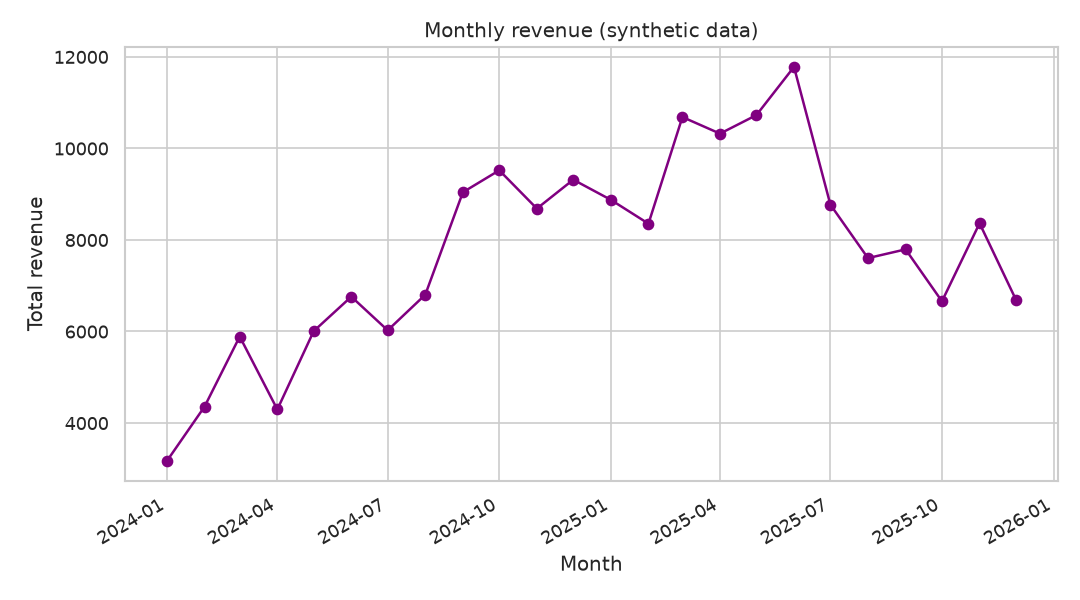
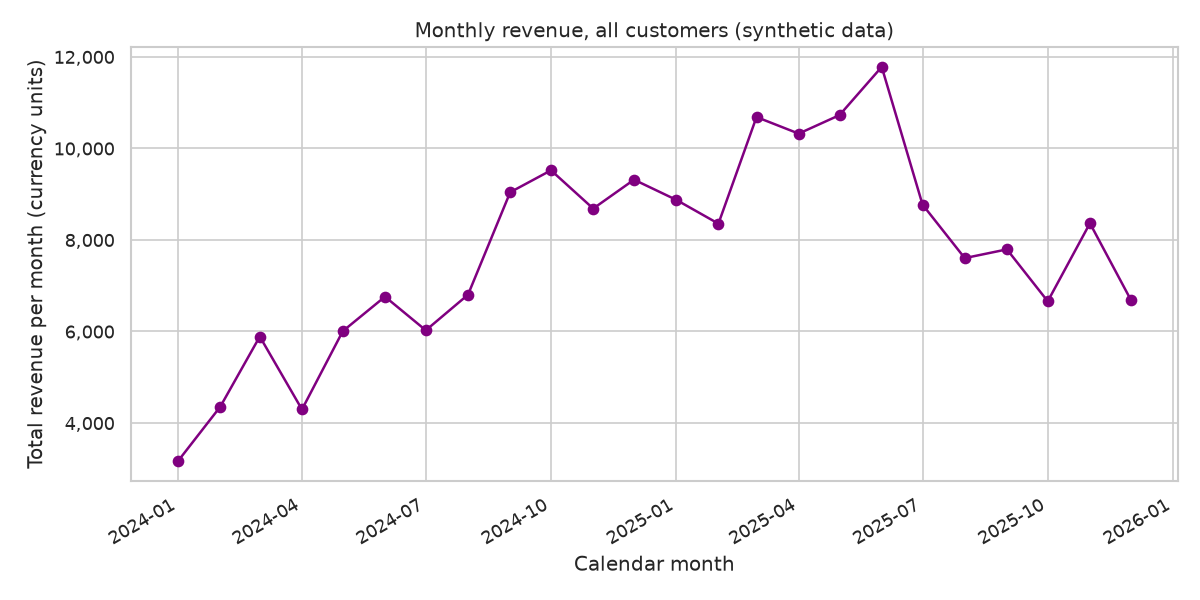
customer-lifetime-value: Improve EDA chart labels, units and number formatting

diff --git a/customer-lifetime-value/src/eda.py b/customer-lifetime-value/src/eda.py
@@ -17,6 +17,7 @@ import matplotlib.pyplot as plt  # noqa: E402
 import numpy as np  # noqa: E402
 import pandas as pd  # noqa: E402
 import seaborn as sns  # noqa: E402
+from matplotlib.ticker import FuncFormatter  # noqa: E402
 
 # Project paths (resolved relative to the project root)
 PROJECT_DIR = Path(__file__).resolve().parents[1]
@@ -25,6 +26,12 @@ FIGURES_DIR = PROJECT_DIR / "figures"
 
 # End of the observation window (same as in the data generator)
 OBSERVATION_END = pd.Timestamp("2025-12-31")
+
+# The data has no currency: values are in a generic currency unit
+UNIT_LABEL = "currency units"
+
+# Tick formatter with thousands separators, e.g. 12,500 instead of 12500
+THOUSANDS = FuncFormatter(lambda value, _pos: f"{value:,.0f}")
 
 sns.set_theme(style="whitegrid")
 
@@ -83,6 +90,11 @@ def segment_table(summary: pd.DataFrame, by: str) -> pd.DataFrame:
     )
 
 
+def pretty_label(code: str) -> str:
+    """Turn a category code such as 'paid_search' into a readable label ('Paid search')."""
+    return str(code).replace("_", " ").capitalize()
+
+
 def print_aggregations(summary: pd.DataFrame, transactions: pd.DataFrame) -> None:
     """Print the key aggregations."""
     print("\n=== Aggregation 1: distribution of orders per customer ===")
@@ -127,8 +139,9 @@ def plot_orders_per_customer(summary: pd.DataFrame, cap: int = 10) -> None:
     ax.set_xticks(range(cap))
     ax.set_xticklabels(labels)
     ax.set_title("Orders per customer (synthetic data)")
-    ax.set_xlabel("Number of orders")
+    ax.set_xlabel("Number of orders per customer")
     ax.set_ylabel("Number of customers")
+    ax.yaxis.set_major_formatter(THOUSANDS)
     fig.tight_layout()
     fig.savefig(FIGURES_DIR / "orders_per_customer.png", dpi=120)
     plt.close(fig)
@@ -139,8 +152,9 @@ def plot_order_value_distribution(transactions: pd.DataFrame) -> None:
     fig, ax = plt.subplots(figsize=(8, 5))
     sns.histplot(transactions["order_value"], bins=40, color="darkorange", ax=ax)
     ax.set_title("Distribution of order values (synthetic data)")
-    ax.set_xlabel("Order value")
+    ax.set_xlabel(f"Order value ({UNIT_LABEL})")
     ax.set_ylabel("Number of orders")
+    ax.yaxis.set_major_formatter(THOUSANDS)
     fig.tight_layout()
     fig.savefig(FIGURES_DIR / "order_value_distribution.png", dpi=120)
     plt.close(fig)
@@ -151,14 +165,20 @@ def plot_revenue_by_channel(summary: pd.DataFrame) -> None:
     order = (
         summary.groupby("acquisition_channel")["revenue"].mean().sort_values(ascending=False).index
     )
-    fig, ax = plt.subplots(figsize=(8, 5))
+    fig, ax = plt.subplots(figsize=(9, 5))
     sns.barplot(
         data=summary, x="acquisition_channel", y="revenue", order=order,
         color="seagreen", errorbar=("ci", 95), ax=ax,
     )
-    ax.set_title("Average revenue per customer by acquisition channel (synthetic data)")
+    ax.set_xticks(range(len(order)))
+    ax.set_xticklabels([pretty_label(code) for code in order])
+    ax.set_title(
+        "Average revenue per customer by acquisition channel\n"
+        "(synthetic data; error bars show 95% confidence intervals)"
+    )
     ax.set_xlabel("Acquisition channel")
-    ax.set_ylabel("Average revenue per customer")
+    ax.set_ylabel(f"Average revenue per customer ({UNIT_LABEL})")
+    ax.yaxis.set_major_formatter(THOUSANDS)
     fig.tight_layout()
     fig.savefig(FIGURES_DIR / "revenue_by_channel.png", dpi=120)
     plt.close(fig)
@@ -168,11 +188,12 @@ def plot_monthly_revenue(transactions: pd.DataFrame) -> None:
     """Line chart of total revenue per calendar month."""
     monthly = transactions.set_index("transaction_date")["order_value"].resample("MS").sum()
 
-    fig, ax = plt.subplots(figsize=(9, 5))
+    fig, ax = plt.subplots(figsize=(10, 5))
     ax.plot(monthly.index, monthly.values, marker="o", color="purple")
-    ax.set_title("Monthly revenue (synthetic data)")
-    ax.set_xlabel("Month")
-    ax.set_ylabel("Total revenue")
+    ax.set_title("Monthly revenue, all customers (synthetic data)")
+    ax.set_xlabel("Calendar month")
+    ax.set_ylabel(f"Total revenue per month ({UNIT_LABEL})")
+    ax.yaxis.set_major_formatter(THOUSANDS)
     fig.autofmt_xdate()
     fig.tight_layout()
     fig.savefig(FIGURES_DIR / "monthly_revenue.png", dpi=120)
